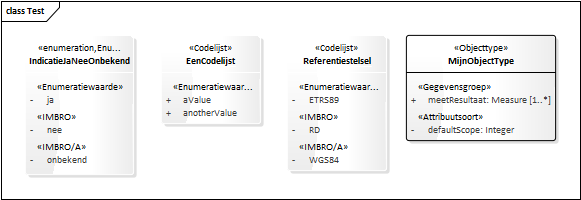
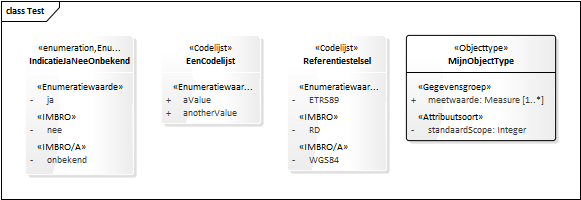
Conceptualmodel-99TestSAMPLE1-1.0-1-20190731-20190731-133236

Changed region(s): [[0.7745, 0.48, 0.9604, 0.54], [0.7126, 0.63, 0.9294, 0.69]]

diff --git a/data/SAMPLE1-cat.html b/data/SAMPLE1-cat.html
@@ -1,7 +1,7 @@
 <section id="cat" class="normative" level="1">
    <h2>Gegevensdefinitie</h2>
    <p><b>Deze tekst is normatief.</b>
-      <!--Conceptualmodel-99TestSAMPLE1-1.0-1-20190731-20190731-132900 imvertor 1.53.3--></p>
+      <!--Conceptualmodel-99TestSAMPLE1-1.0-1-20190731-20190731-133236 imvertor 1.53.3--></p>
    <section id="" level="3">
       <h3>Het domeinmodel </h3>
    </section>
@@ -21,12 +21,16 @@
                   <td>BRO</td>
                </tr>
                <tr>
+                  <th>Definitie</th>
+                  <td>TODO</td>
+               </tr>
+               <tr>
                   <th>Herkomst definitie</th>
                   <td>BRO</td>
                </tr>
             </tbody>
-         </table><a class="anchor" name="detail_attribute_Test_MijnObjectType_meetResultaat"></a><section id="detail_attribute_Test_MijnObjectType_meetResultaat" level="5">
-            <h5>Attribuutsoort details meetResultaat</h5>
+         </table><a class="anchor" name="detail_attribute_Test_MijnObjectType_meetwaarde"></a><section id="detail_attribute_Test_MijnObjectType_meetwaarde" level="5">
+            <h5>Attribuutsoort details meetwaarde</h5>
             
             <table>
                <colgroup width="30%"></colgroup>
@@ -71,8 +75,8 @@
                </tbody>
             </table>
             
-         </section><a class="anchor" name="detail_attribute_Test_MijnObjectType_defaultScope"></a><section id="detail_attribute_Test_MijnObjectType_defaultScope" level="5">
-            <h5>Attribuutsoort details defaultScope</h5>
+         </section><a class="anchor" name="detail_attribute_Test_MijnObjectType_standaardScope"></a><section id="detail_attribute_Test_MijnObjectType_standaardScope" level="5">
+            <h5>Attribuutsoort details standaardScope</h5>
             
             <table>
                <colgroup width="30%"></colgroup>
@@ -89,6 +93,10 @@
                   <tr>
                      <th>Herkomst</th>
                      <td>BRO</td>
+                  </tr>
+                  <tr>
+                     <th>Definitie</th>
+                     <td>TODO</td>
                   </tr>
                   <tr>
                      <th>Herkomst definitie</th>
